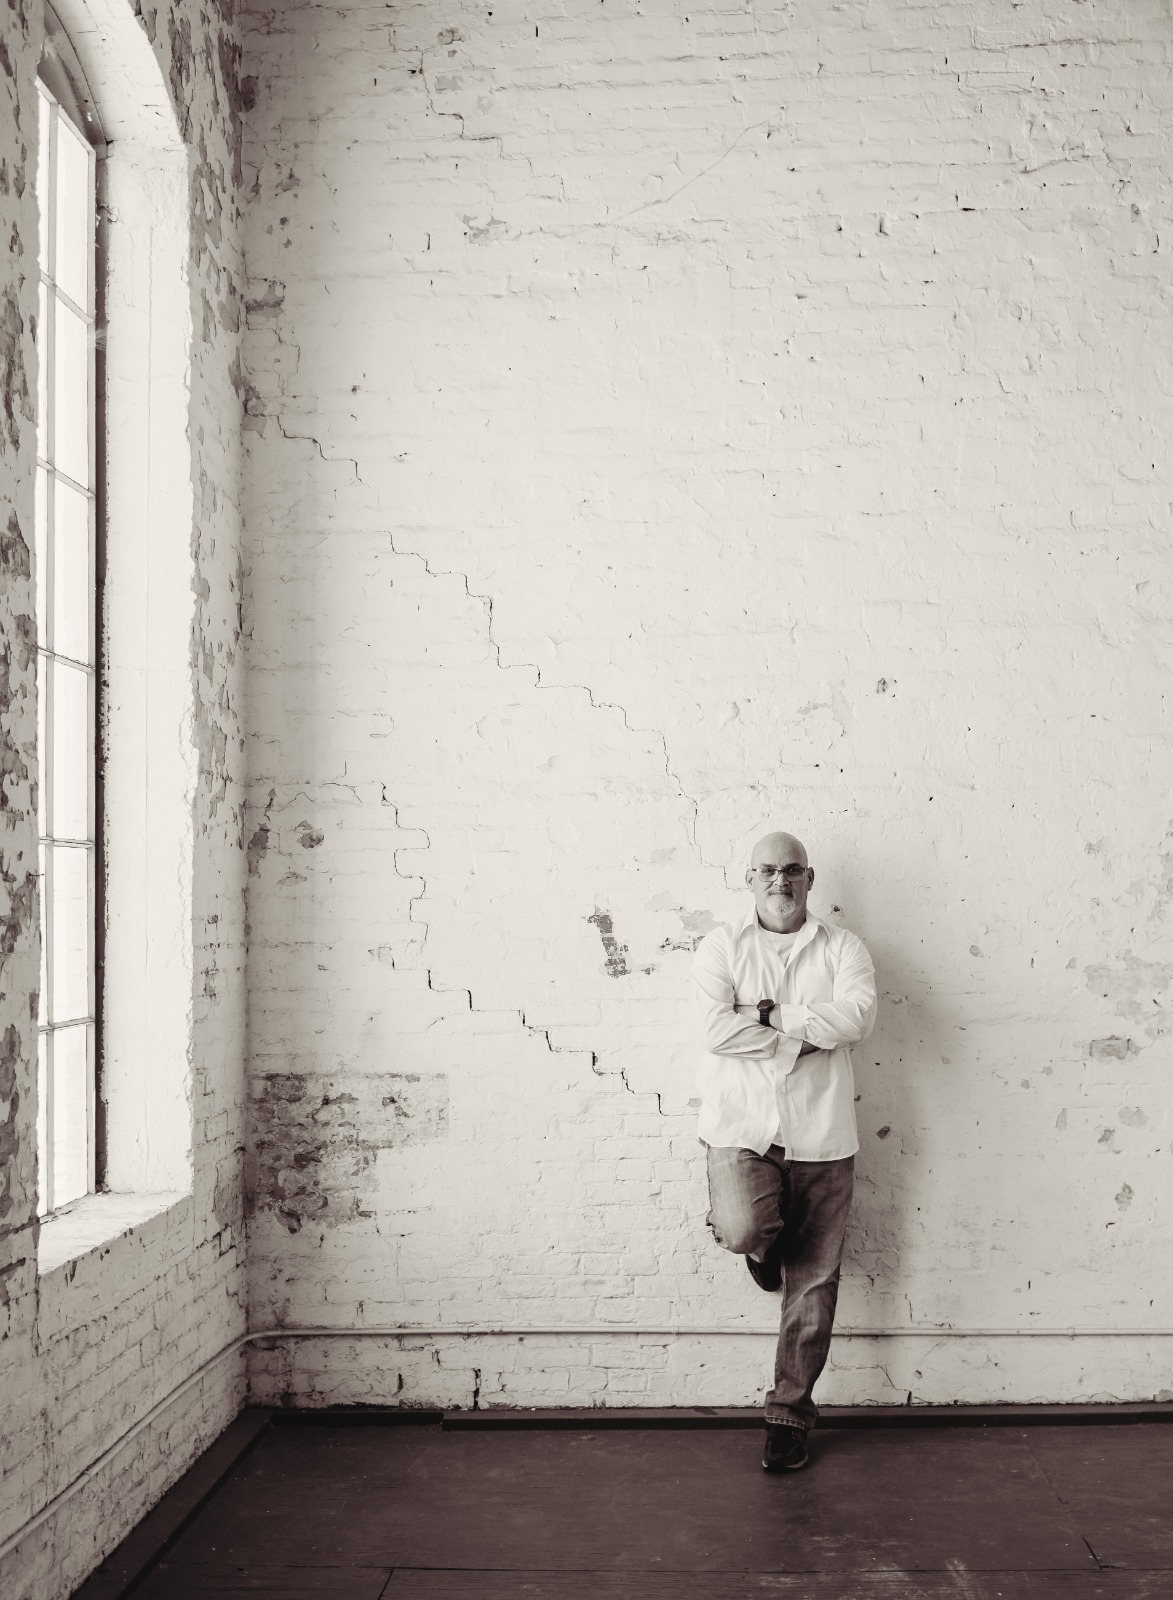
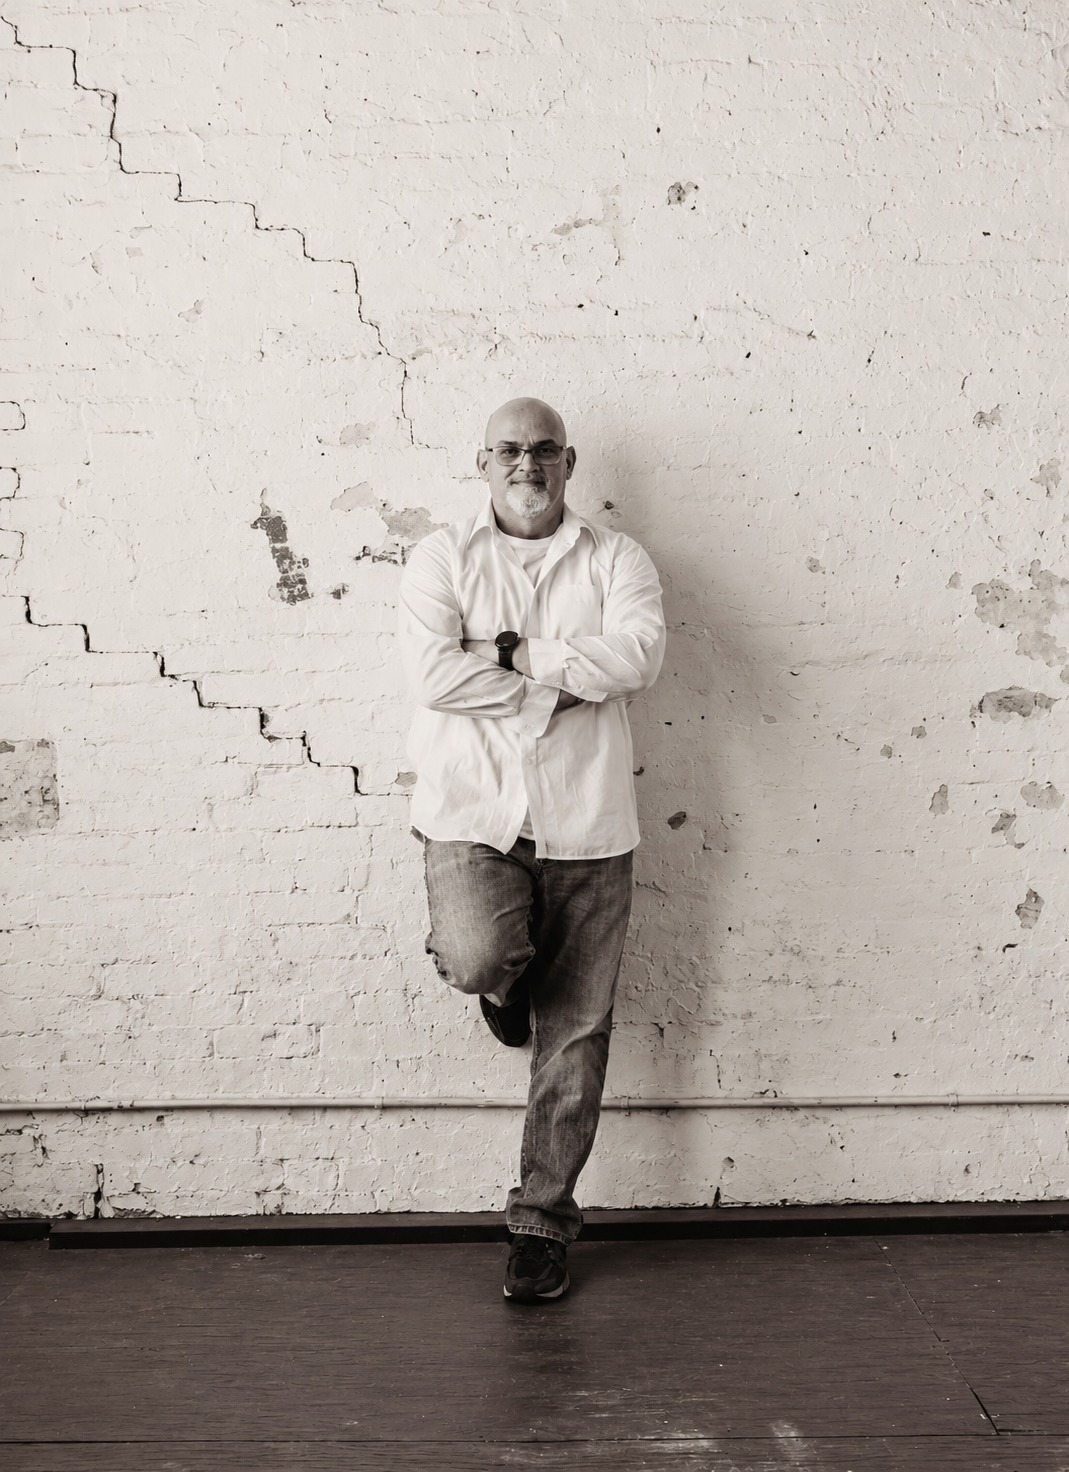
add images

diff --git a/src/routes/gallery.tsx b/src/routes/gallery.tsx
@@ -1,120 +1,117 @@
-import { useMemo, useState } from "react";
-import { X } from "lucide-react";
-import {
-  GoldDivider,
-  Orbs,
-  Reveal,
-  Section,
-  SectionHeading,
-  Stagger,
-  StaggerItem,
-  WordReveal,
-} from "@/components/lux";
-import { galleryImages, site } from "@/data/content";
-import deskImg from "@/assets/desk.jpg";
-import libraryImg from "@/assets/library.jpg";
-import mistImg from "@/assets/mist.jpg";
-import readingRoomImg from "@/assets/reading-room.jpg";
-import { withBase } from "@/lib/asset-path";
-
-const imageMap: Record<string, string> = {
-  "/sky.png": withBase("/sky.png"),
-  "/when-one-door-opens-cover.png": withBase("/when-one-door-opens-cover.png"),
-  "asset:mist": mistImg,
-  "asset:library": libraryImg,
-  "asset:desk": deskImg,
-  "asset:reading-room": readingRoomImg,
-};
-
-export function GalleryPage() {
-  const [active, setActive] = useState<number | null>(null);
-  const images = useMemo(
-    () =>
-      galleryImages.map((image) => ({
-        ...image,
-        resolvedSrc: imageMap[image.src] ?? image.src,
-      })),
-    [],
-  );
-
-  return (
-    <>
-      <section className="surface-midnight grain relative overflow-hidden px-6 pb-24 pt-44 text-center">
-        <img
-          src={withBase("/sky.png")}
-          alt=""
-          aria-hidden
-          width={1920}
-          height={1280}
-          className="pointer-events-none absolute inset-0 h-full w-full object-cover opacity-30"
-        />
-        <div aria-hidden className="pointer-events-none absolute inset-0" style={{ background: "var(--gradient-midnight)", opacity: 0.82 }} />
-        <div aria-hidden className="pointer-events-none absolute inset-0" style={{ background: "var(--gradient-aurora)" }} />
-        <div className="relative z-10 mx-auto max-w-3xl">
-          <p className="eyebrow">Gallery</p>
-          <h1 className="display mt-8 text-5xl sm:text-7xl">
-            <WordReveal text={`Inside ${site.bookTitle}`} />
-          </h1>
-          <GoldDivider className="mt-10" />
-          <p className="mt-8 text-base leading-relaxed text-muted-foreground">
-            A moody visual collection for the book's atmosphere. When you send the final images, we can replace any of these placeholders while keeping the same page structure.
-          </p>
-        </div>
-      </section>
-
-      <Section className="bg-background">
-        <Orbs className="opacity-60" />
-        <SectionHeading
-          eyebrow="Visual Atmosphere"
-          title="Mystery, stillness, and renewal"
-          intro="This standalone gallery page gives the second client a more custom feeling and separates the visual world of the book from the book summary itself."
-        />
-        <Stagger className="mt-20 grid gap-6 sm:grid-cols-2 lg:grid-cols-3">
-          {images.map((image, index) => (
-            <StaggerItem key={image.title} className="h-full">
-              <Reveal delay={index * 0.05} className="h-full">
-                <button
-                  type="button"
-                  onClick={() => setActive(index)}
-                  className="group block h-full w-full overflow-hidden rounded-[1.75rem] border border-border bg-card text-left shadow-[var(--shadow-lux)]"
-                >
-                  <img
-                    src={image.resolvedSrc}
-                    alt={image.alt}
-                    loading="lazy"
-                    className="h-[24rem] w-full object-cover transition-transform duration-[1400ms] ease-[cubic-bezier(0.22,1,0.36,1)] group-hover:scale-105 sm:h-[26rem] lg:h-[28rem]"
-                  />
-                  <div className="p-6">
-                    <p className="display text-2xl text-card-foreground">{image.title}</p>
-                    <p className="mt-2 text-sm leading-relaxed text-muted-foreground">{image.alt}</p>
-                  </div>
-                </button>
-              </Reveal>
-            </StaggerItem>
-          ))}
-        </Stagger>
-
-        {active !== null ? (
-          <div
-            className="fixed inset-0 z-[70] flex items-center justify-center bg-midnight/92 p-6 backdrop-blur-xl"
-            onClick={() => setActive(null)}
-          >
-            <button
-              type="button"
-              aria-label="Close"
-              className="absolute right-6 top-6 flex h-11 w-11 items-center justify-center rounded-full border border-primary/30 text-primary"
-              onClick={() => setActive(null)}
-            >
-              <X className="h-4 w-4" />
-            </button>
-            <img
-              src={images[active].resolvedSrc}
-              alt={images[active].alt}
-              className="max-h-[82vh] w-auto rounded-2xl border border-border shadow-[var(--shadow-lux)]"
-            />
-          </div>
-        ) : null}
-      </Section>
-    </>
-  );
+import { useMemo, useState } from "react"; 
+import { X } from "lucide-react"; 
+import { 
+  GoldDivider, 
+  Orbs, 
+  Reveal, 
+  Section, 
+  SectionHeading, 
+  Stagger, 
+  StaggerItem, 
+  WordReveal, 
+} from "@/components/lux"; 
+import { galleryImages, site } from "@/data/content"; 
+import deskImg from "@/assets/desk.jpg"; 
+import libraryImg from "@/assets/library.jpg"; 
+import mistImg from "@/assets/mist.jpg"; 
+import readingRoomImg from "@/assets/reading-room.jpg"; 
+import { withBase } from "@/lib/asset-path"; 
+ 
+const imageMap: Record<string, string> = { 
+  "/sky.png": withBase("/sky.png"), 
+  "/when-one-door-opens-cover.png": withBase("/when-one-door-opens-cover.png"), 
+  "asset:mist": mistImg, 
+  "asset:library": libraryImg, 
+  "asset:desk": deskImg, 
+  "asset:reading-room": readingRoomImg, 
+}; 
+ 
+export function GalleryPage() { 
+  const [active, setActive] = useState<number | null>(null); 
+  const images = useMemo( 
+    () => 
+      galleryImages.map((image) => ({ 
+        ...image, 
+        resolvedSrc: imageMap[image.src] ?? image.src, 
+      })), 
+    [], 
+  ); 
+ 
+  return ( 
+    <> 
+      <section className="surface-midnight grain relative overflow-hidden px-6 pb-24 pt-44 text-center"> 
+        <img 
+          src={withBase("/sky.png")} 
+          alt="" 
+          aria-hidden 
+          width={1920} 
+          height={1280} 
+          className="pointer-events-none absolute inset-0 h-full w-full object-cover opacity-30" 
+        /> 
+        <div aria-hidden className="pointer-events-none absolute inset-0" style={{ background: "var(--gradient-midnight)", opacity: 0.82 }} /> 
+        <div aria-hidden className="pointer-events-none absolute inset-0" style={{ background: "var(--gradient-aurora)" }} /> 
+        <div className="relative z-10 mx-auto max-w-3xl"> 
+          <p className="eyebrow">Gallery</p> 
+          <h1 className="display mt-8 text-5xl sm:text-7xl"> 
+            <WordReveal text={`Inside ${site.bookTitle}`} /> 
+          </h1> 
+          <GoldDivider className="mt-10" /> 
+          <p className="mt-8 text-base leading-relaxed text-muted-foreground"> 
+            A moody visual collection for the book's atmosphere. When you send the final images, we can replace any of these placeholders while keeping the same page structure. 
+          </p> 
+        </div> 
+      </section> 
+ 
+      <Section className="bg-background"> 
+        <Orbs className="opacity-60" /> 
+        <SectionHeading 
+          eyebrow="Visual Atmosphere" 
+          title="Mystery, stillness, and renewal" 
+          intro="This standalone gallery page gives the second client a more custom feeling and separates the visual world of the book from the book summary itself." 
+        /> 
+        <Stagger className="mt-20 grid gap-6 sm:grid-cols-2 lg:grid-cols-3"> 
+          {images.map((image, index) => ( 
+            <StaggerItem key={image.title} className="h-full"> 
+              <Reveal delay={index * 0.05} className="h-full"> 
+                <button 
+                  type="button" 
+                  onClick={() => setActive(index)} 
+                  className="group block h-full w-full overflow-hidden rounded-[1.75rem] border border-border bg-card text-left shadow-[var(--shadow-lux)]" 
+                > 
+                  <img 
+                    src={image.resolvedSrc} 
+                    alt={image.alt} 
+                    loading="lazy" 
+                    className="h-[24rem] w-full object-cover object-top transition-transform duration-[1400ms] ease-[cubic-bezier(0.22,1,0.36,1)] group-hover:scale-105 sm:h-[26rem] lg:h-[28rem]" 
+                  /> 
+                  
+                </button> 
+              </Reveal> 
+            </StaggerItem> 
+          ))} 
+        </Stagger> 
+ 
+        {active !== null ? ( 
+          <div 
+            className="fixed inset-0 z-[70] flex items-center justify-center bg-midnight/92 p-6 backdrop-blur-xl" 
+            onClick={() => setActive(null)} 
+          > 
+            <button 
+              type="button" 
+              aria-label="Close" 
+              className="absolute right-6 top-6 flex h-11 w-11 items-center justify-center rounded-full border border-primary/30 text-primary" 
+              onClick={() => setActive(null)} 
+            > 
+              <X className="h-4 w-4" /> 
+            </button> 
+            <img 
+              src={images[active].resolvedSrc} 
+              alt={images[active].alt} 
+              className="max-h-[82vh] w-auto rounded-2xl border border-border shadow-[var(--shadow-lux)]" 
+            /> 
+          </div> 
+        ) : null} 
+      </Section> 
+    </> 
+  ); 
 }

diff --git a/src/data/content.ts b/src/data/content.ts
@@ -203,34 +203,32 @@ export const formats = [
 
 export const galleryImages = [
   {
-    src: "/sky.png",
-    alt: "Stormy sky suggesting spiritual transition and open horizons",
-    title: "Open Sky",
+    src: "/grace.jpeg",
   },
   {
     src: "/when-one-door-opens-cover.png",
-    alt: "Current placeholder book cover for When One Door Opens",
-    title: "Current Book Image",
+
   },
   {
-    src: "asset:mist",
-    alt: "Misty landscape representing uncertainty and renewal",
-    title: "Misted Threshold",
+    src: "/group1.jpeg",
   },
   {
-    src: "asset:library",
-    alt: "Dim library shelves evoking memory and hidden history",
-    title: "Memory Archive",
+    src: "/sea sunset.jpeg",
   },
   {
-    src: "asset:desk",
-    alt: "Writing desk with letters and candlelight",
-    title: "The Writing Table",
+    src: "/pets.jpeg",
   },
   {
-    src: "asset:reading-room",
-    alt: "Quiet reading room with moody light",
-    title: "Stillness",
+    src: "/group2.jpeg",
+  },
+  {
+    src: "/picture on chair.jpeg",
+  },
+  {
+    src: "/stone.jpeg",
+  },
+  {
+    src: "/building.jpeg",
   },
 ];
 
